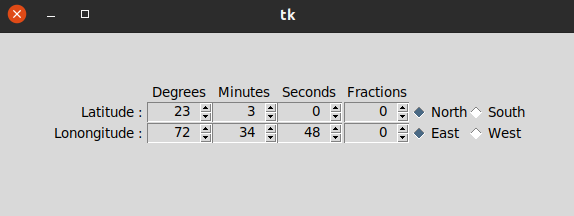
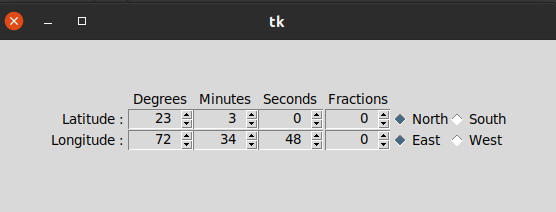
typo corrected

Changed region(s): [[0.0917, 0.3962, 0.9173, 0.7075], [0.0, 0.0283, 1.0, 0.1981], [0.1223, 0.0283, 0.1835, 0.0849]]

diff --git a/src/vau_widgets/latlonentry.py b/src/vau_widgets/latlonentry.py
@@ -368,7 +368,7 @@ class LatLonEntry(Frame):
 
 def main():
     root = Tk()
-    e = LatLonEntry(root, " Latitude : ", " Lonongitude : ")
+    e = LatLonEntry(root, " Latitude : ", " Longitude : ")
     e.grid(padx=50, pady=50)
     b = Button(root, text="Toggle Hints", command=e.toggle_hints)
     b.grid(padx=50, pady=50)
